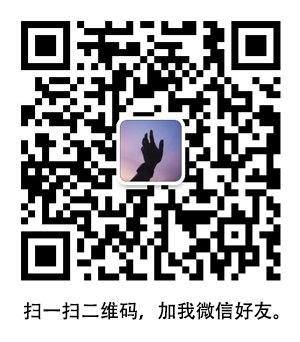
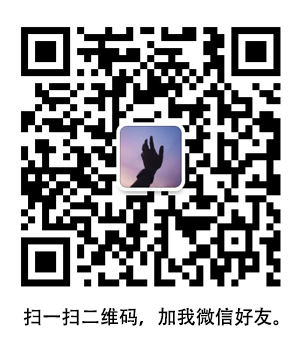
修改关于博主联系方式二维码图片

diff --git a/templates/blog/aside.html b/templates/blog/aside.html
@@ -9,7 +9,7 @@
         </h4>
         <div class="layui-row recommend-list">
             {% for tui in recommend %}
-                <div class="layui-col-xs12 layui-col-md6">
+                <div class="layui-col-xs12 layui-col-md6 this-recommend">
                     <div>
                         <a href="/blog/show-{{ tui.id }}" class="img-zoom"><img src="media/{{ tui.img }}"></a>
                         <a href="/blog/show-{{ tui.id }}" title="{{ tui.title }}"><p>{{ tui.title }}</p></a>
@@ -381,6 +381,16 @@
         })
         $("#qq").parent("a").hover(function () {
             $("#qq").stop().fadeToggle(500);
+        })
+    })
+</script>
+<script>
+    // 推荐阅读当前高亮
+    $(function (){
+        $(".this-recommend").hover(function () {
+            $(this).siblings().stop().fadeTo(100, 0.6);
+        }, function (){
+            $(this).siblings().stop().fadeTo(100, 1);
         })
     })
 </script>

diff --git a/templates/base-blog.html b/templates/base-blog.html
@@ -234,11 +234,11 @@
             {#console.log(p)#}
             if (t < p) {
                 {#console.log("下翻");#}
-                $('.nav-fixed').slideUp();
+                $('.nav-fixed').stop().slideUp();
 
             } else {
                 {#console.log("上翻");#}
-                $('.nav-fixed').slideDown();
+                $('.nav-fixed').stop().slideDown();
             }
             t = p;
         })
@@ -262,11 +262,11 @@
     $(window).scroll(function () {
         var scroll_len = $(window).scrollTop();
         if (scroll_len > 120) {
-            $('#back-top').fadeIn(1000, function () {
+            $('#back-top').stop().fadeIn(1000),function (){
 
-            });
+            };
         } else {
-            $('#back-top').fadeOut(1000);
+            $('#back-top').stop().fadeOut(1000);
         }
     });
     $('#back-top').click(function (e) {

diff --git a/templates/blog/messageBoard.html b/templates/blog/messageBoard.html
@@ -25,7 +25,7 @@
                                         </a>
                                     </div>
                                     <div class="layui-col-xs12 layui-col-md10">
-                                        <textarea id="leave" placeholder="请输入内容">11223344</textarea>
+                                        <textarea id="leave"></textarea>
                                     </div>
                                     <div class="layui-col-xs2 layui-col-md1">
                                         <button type="button" class="layui-btn layui-btn-normal">留言</button>

diff --git a/static/css/blog.css b/static/css/blog.css
@@ -348,7 +348,6 @@ aside h4, .index-new h4 {
     position: absolute;
     bottom: 33px;
     z-index: 500;
-    left: -4px;
     display: none;
 }
 .about-logo #weixin img,#qq img {
